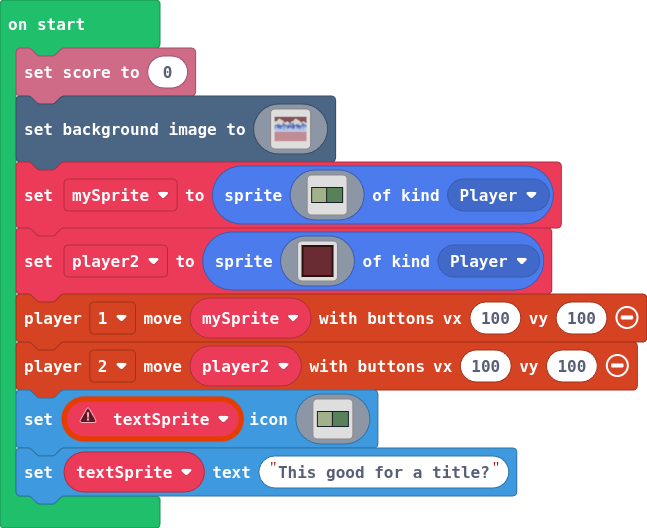
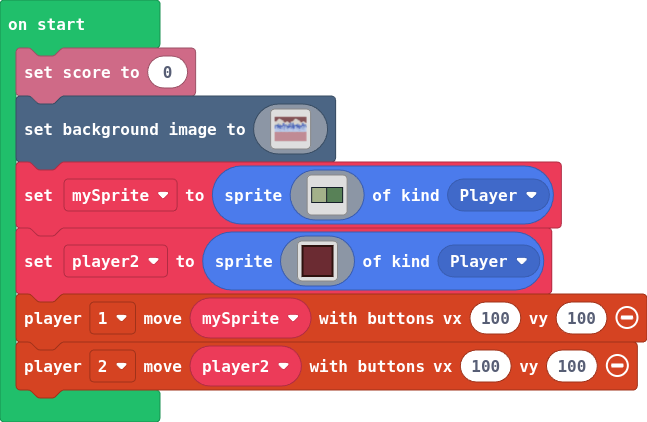
fixed crash errror

diff --git a/main.ts b/main.ts
@@ -1,9 +1,6 @@
-let textSprite: TextSprite = null
 info.setScore(0)
 scene.setBackgroundImage(assets.image`cityscape`)
 let mySprite = sprites.create(assets.image`myImage0`, SpriteKind.Player)
 let player2 = sprites.create(assets.image`myImage1`, SpriteKind.Player)
 controller.player1.moveSprite(mySprite, 100, 100)
 controller.player2.moveSprite(player2, 100, 100)
-textSprite.setIcon(assets.image`myImage0`)
-textSprite.setText("This good for a title?")
